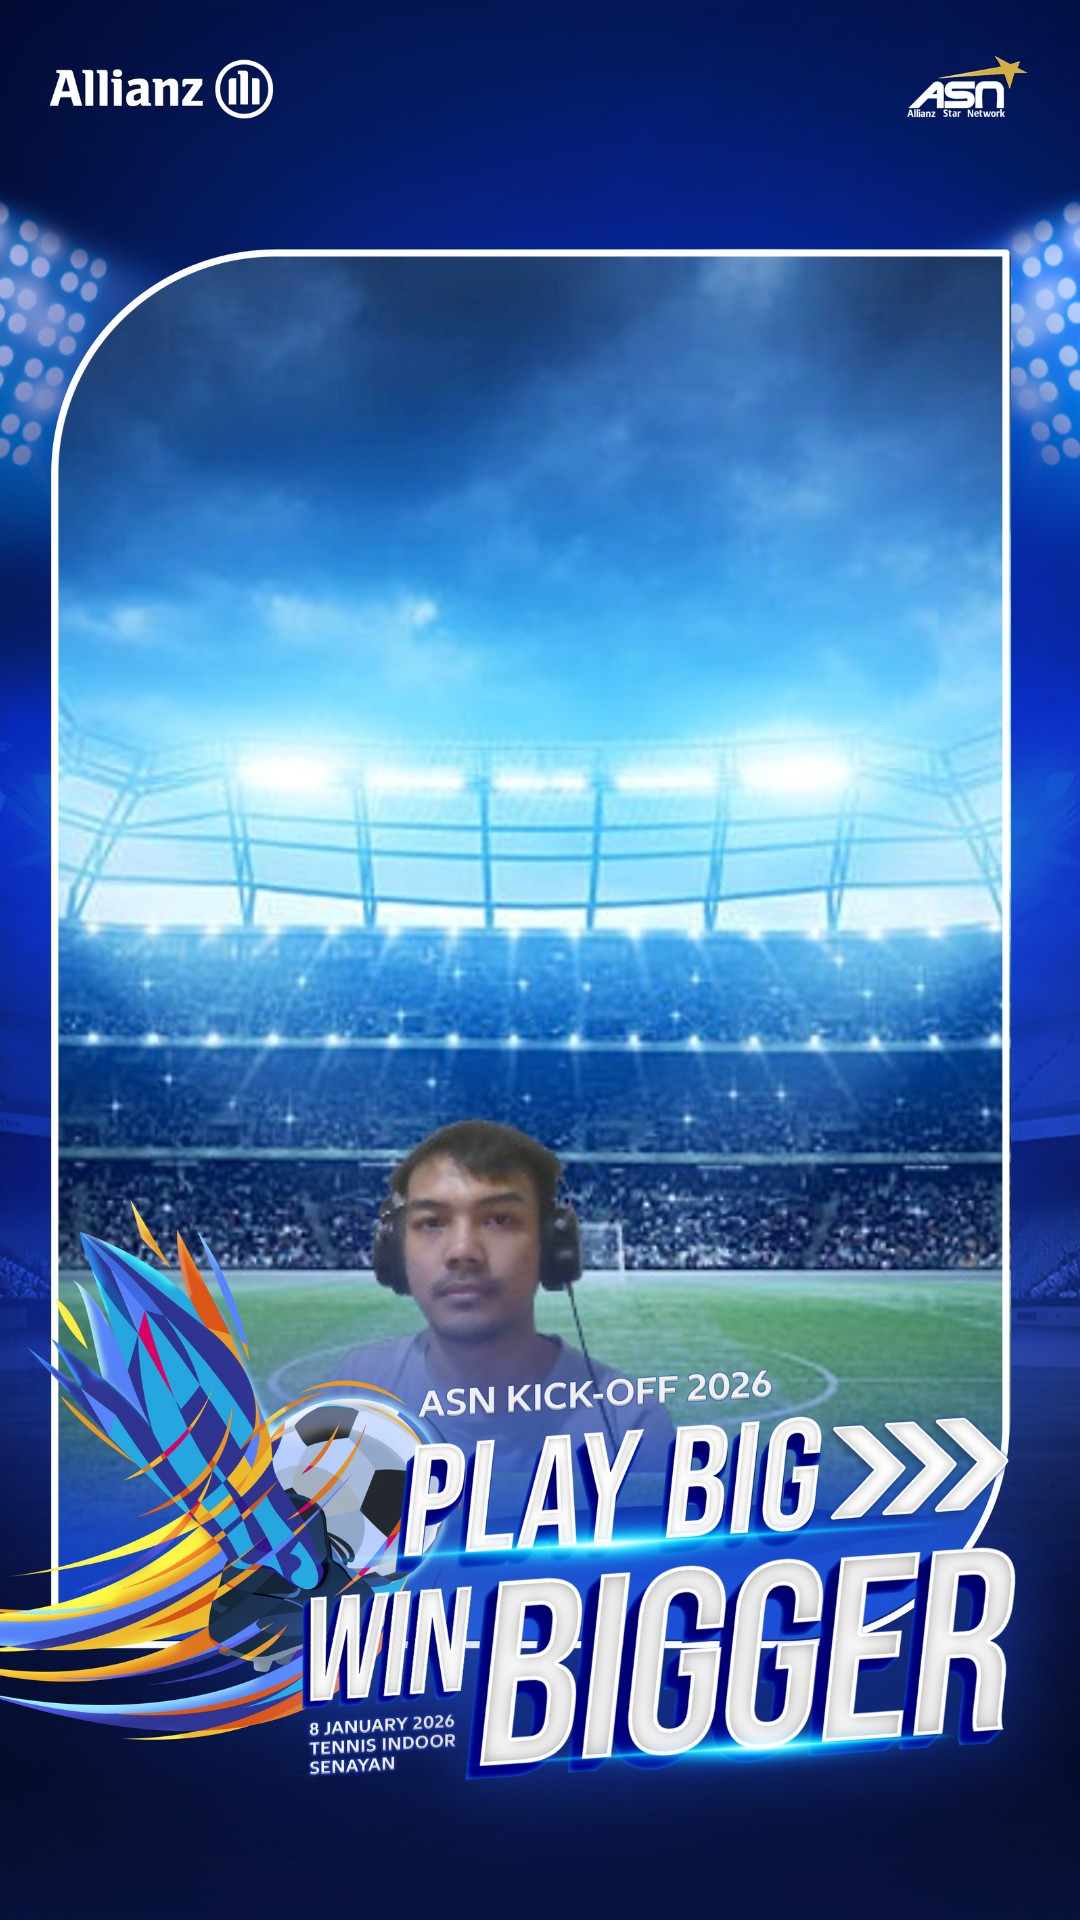
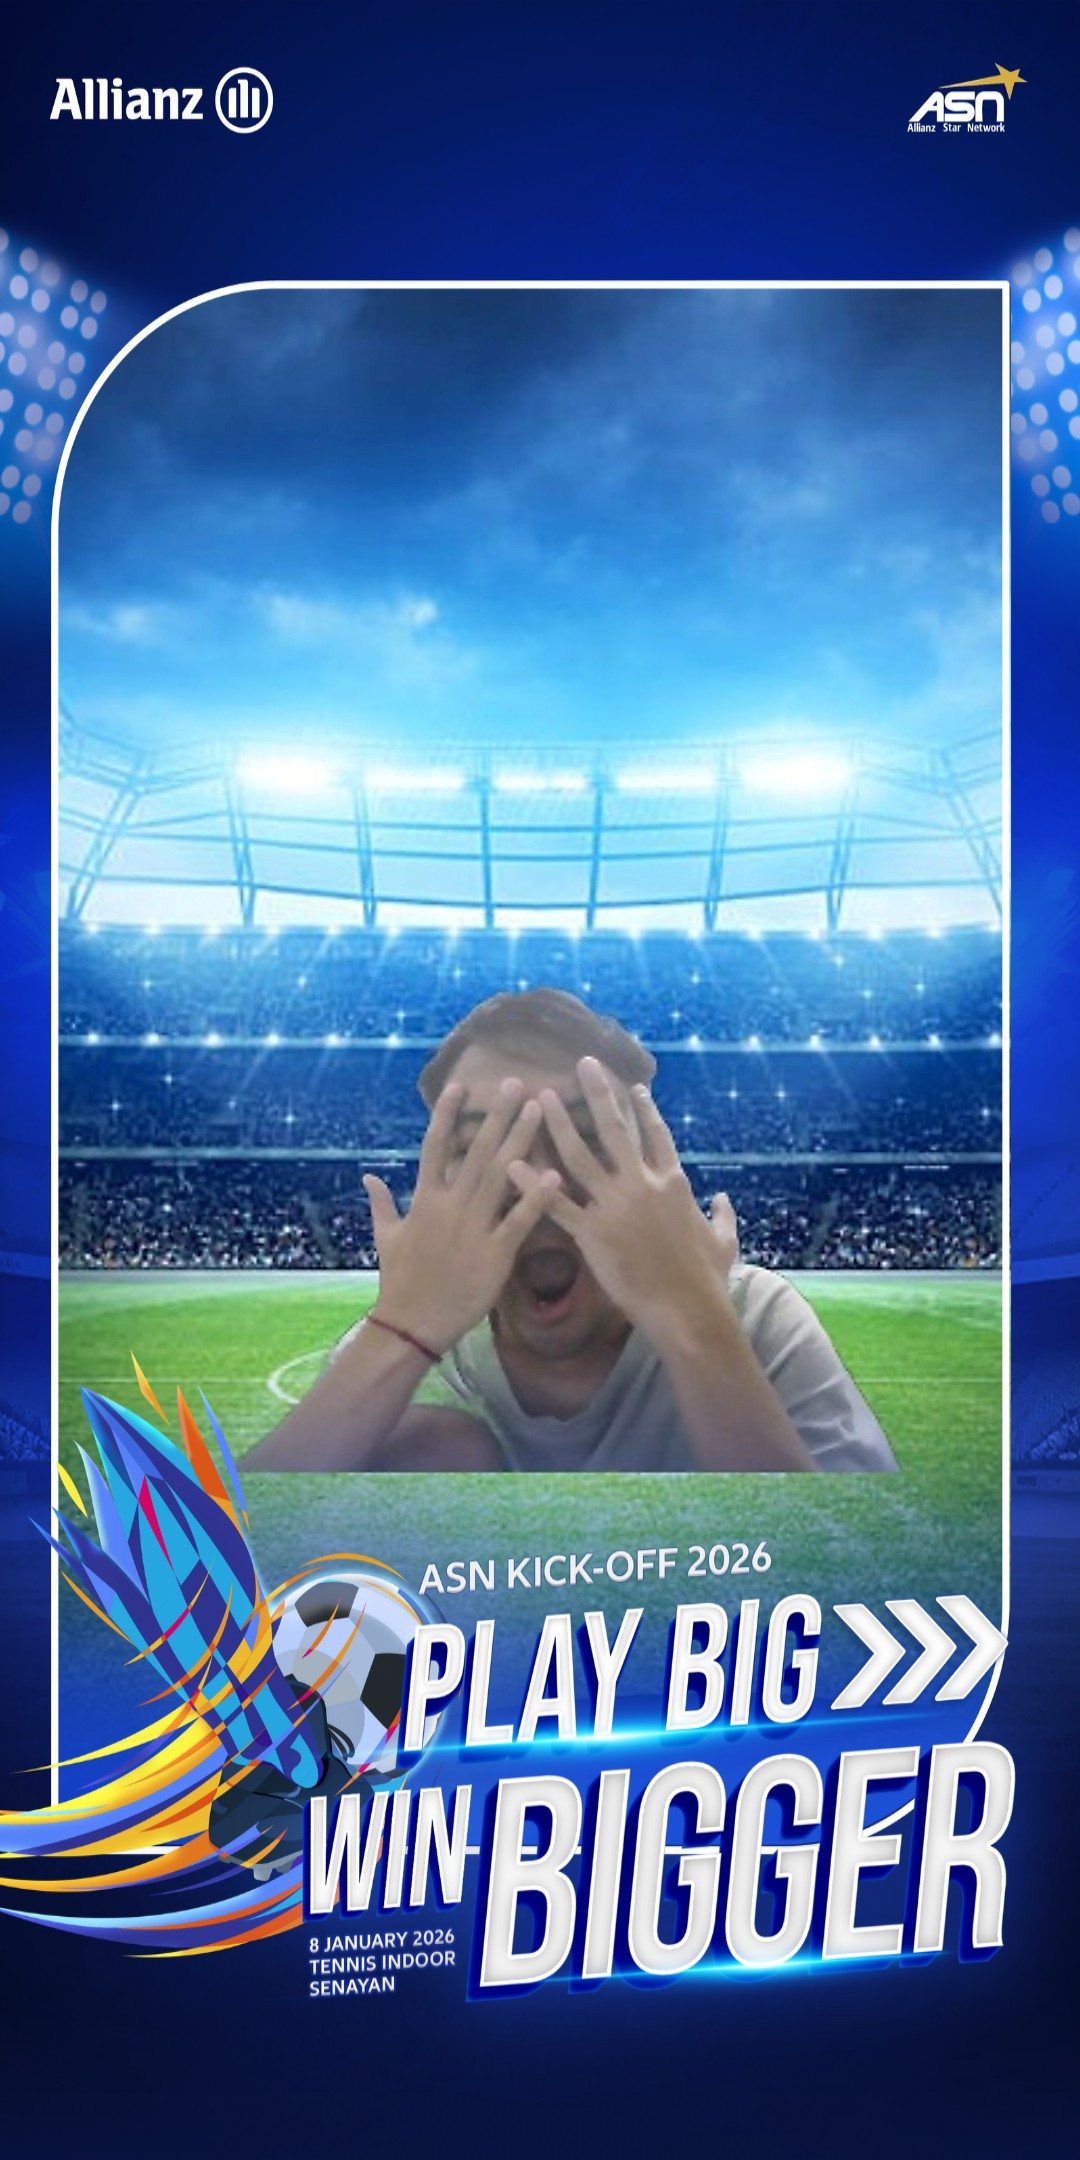
adding fallback image when the backend disconnect and reconnect

diff --git a/frontend/src/views/Display1.vue b/frontend/src/views/Display1.vue
@@ -7,6 +7,7 @@ const photoUrl = ref("");
 const version = ref(0);
 const status = ref("loading"); // loading | waiting | ready | error
 const errorMessage = ref("");
+const isFallback = ref(false);
 
 const POLL_INTERVAL_MS = 2000;
 let pollHandle = null;
@@ -32,6 +33,29 @@ const preloadImage = (url) =>
     img.src = url;
   });
 
+const tryStaticFallback = async () => {
+  if (photoUrl.value) return;
+  const exts = [".jpg", ".jpeg", ".png", ".webp"];
+  const prefixes = ["/static/photos", "/photos"];
+  for (const prefix of prefixes) {
+    for (const ext of exts) {
+      const candidate = resolveUrl(
+        `${prefix}/Display${slotNumber}/foto-${slotNumber}${ext}`
+      );
+      const loaded = await preloadImage(candidate)
+        .then(() => true)
+        .catch(() => false);
+      if (loaded) {
+        photoUrl.value = candidate;
+        version.value = 0;
+        isFallback.value = true;
+        status.value = "waiting";
+        return;
+      }
+    }
+  }
+};
+
 const fetchSlotState = async () => {
   try {
     const response = await fetch(`${apiBaseUrl}/api/slot/${slotNumber}`, {
@@ -50,6 +74,7 @@ const fetchSlotState = async () => {
 
     if (!baseUrl) {
       status.value = "waiting";
+      await tryStaticFallback();
       return;
     }
 
@@ -70,6 +95,7 @@ const fetchSlotState = async () => {
 
     photoUrl.value = nextUrl;
     version.value = incomingVersion;
+    isFallback.value = false;
     status.value = "ready";
     errorMessage.value = "";
   } catch (error) {
@@ -93,6 +119,7 @@ const stopPolling = () => {
 };
 
 onMounted(() => {
+  tryStaticFallback();
   fetchSlotState();
   startPolling();
 });
@@ -108,10 +135,13 @@ onBeforeUnmount(() => {
       <h1 class="led-number">Display {{ slotNumber }}</h1>
       <p v-if="status === 'loading'">Loading slot...</p>
       <p v-else-if="status === 'error'">{{ errorMessage }}</p>
+      <p v-if="status === 'waiting' && isFallback">
+        Waiting for photo, this is fallback.
+      </p>
       <p v-else-if="!photoUrl">Waiting for photo...</p>
       <img
         class="led-image"
-        v-else
+        v-if="photoUrl"
         :src="photoUrl"
         :alt="`Slot ${slotNumber} photo`"
       />

diff --git a/frontend/src/views/Display2.vue b/frontend/src/views/Display2.vue
@@ -7,6 +7,7 @@ const photoUrl = ref("");
 const version = ref(0);
 const status = ref("loading"); // loading | waiting | ready | error
 const errorMessage = ref("");
+const isFallback = ref(false);
 
 const POLL_INTERVAL_MS = 2000;
 let pollHandle = null;
@@ -32,6 +33,29 @@ const preloadImage = (url) =>
     img.src = url;
   });
 
+const tryStaticFallback = async () => {
+  if (photoUrl.value) return;
+  const exts = [".jpg", ".jpeg", ".png", ".webp"];
+  const prefixes = ["/static/photos", "/photos"];
+  for (const prefix of prefixes) {
+    for (const ext of exts) {
+      const candidate = resolveUrl(
+        `${prefix}/Display${slotNumber}/foto-${slotNumber}${ext}`
+      );
+      const loaded = await preloadImage(candidate)
+        .then(() => true)
+        .catch(() => false);
+      if (loaded) {
+        photoUrl.value = candidate;
+        version.value = 0;
+        isFallback.value = true;
+        status.value = "waiting";
+        return;
+      }
+    }
+  }
+};
+
 const fetchSlotState = async () => {
   try {
     const response = await fetch(`${apiBaseUrl}/api/slot/${slotNumber}`, {
@@ -50,6 +74,7 @@ const fetchSlotState = async () => {
 
     if (!baseUrl) {
       status.value = "waiting";
+      await tryStaticFallback();
       return;
     }
 
@@ -70,6 +95,7 @@ const fetchSlotState = async () => {
 
     photoUrl.value = nextUrl;
     version.value = incomingVersion;
+    isFallback.value = false;
     status.value = "ready";
     errorMessage.value = "";
   } catch (error) {
@@ -93,6 +119,7 @@ const stopPolling = () => {
 };
 
 onMounted(() => {
+  tryStaticFallback();
   fetchSlotState();
   startPolling();
 });
@@ -108,10 +135,13 @@ onBeforeUnmount(() => {
       <h1 class="led-number">Display {{ slotNumber }}</h1>
       <p v-if="status === 'loading'">Loading slot...</p>
       <p v-else-if="status === 'error'">{{ errorMessage }}</p>
+      <p v-if="status === 'waiting' && isFallback">
+        Waiting for photo, this is fallback.
+      </p>
       <p v-else-if="!photoUrl">Waiting for photo...</p>
       <img
         class="led-image"
-        v-else
+        v-if="photoUrl"
         :src="photoUrl"
         :alt="`Slot ${slotNumber} photo`"
       />

diff --git a/frontend/src/views/Display3.vue b/frontend/src/views/Display3.vue
@@ -7,6 +7,7 @@ const photoUrl = ref('')
 const version = ref(0)
 const status = ref('loading') // loading | waiting | ready | error
 const errorMessage = ref('')
+const isFallback = ref(false)
 
 const POLL_INTERVAL_MS = 2000
 let pollHandle = null
@@ -32,6 +33,27 @@ const preloadImage = (url) =>
     img.src = url
   })
 
+const tryStaticFallback = async () => {
+  if (photoUrl.value) return
+  const exts = ['.jpg', '.jpeg', '.png', '.webp']
+  const prefixes = ['/static/photos', '/photos']
+  for (const prefix of prefixes) {
+    for (const ext of exts) {
+      const candidate = resolveUrl(
+        `${prefix}/Display${slotNumber}/foto-${slotNumber}${ext}`
+      )
+      const loaded = await preloadImage(candidate).then(() => true).catch(() => false)
+      if (loaded) {
+        photoUrl.value = candidate
+        version.value = 0
+        isFallback.value = true
+        status.value = 'waiting'
+        return
+      }
+    }
+  }
+}
+
 const fetchSlotState = async () => {
   try {
     const response = await fetch(`${apiBaseUrl}/api/slot/${slotNumber}`, { cache: 'no-store' })
@@ -47,6 +69,7 @@ const fetchSlotState = async () => {
 
     if (!baseUrl) {
       status.value = 'waiting'
+      await tryStaticFallback()
       return
     }
 
@@ -65,6 +88,7 @@ const fetchSlotState = async () => {
 
     photoUrl.value = nextUrl
     version.value = incomingVersion
+    isFallback.value = false
     status.value = 'ready'
     errorMessage.value = ''
   } catch (error) {
@@ -87,6 +111,7 @@ const stopPolling = () => {
 }
 
 onMounted(() => {
+  tryStaticFallback()
   fetchSlotState()
   startPolling()
 })
@@ -102,10 +127,13 @@ onBeforeUnmount(() => {
       <h1 class="led-number">Display {{ slotNumber }}</h1>
       <p v-if="status === 'loading'">Loading slot...</p>
       <p v-else-if="status === 'error'">{{ errorMessage }}</p>
+      <p v-if="status === 'waiting' && isFallback">
+        Waiting for photo, this is fallback.
+      </p>
       <p v-else-if="!photoUrl">Waiting for photo...</p>
       <img
         class="led-image"
-        v-else
+        v-if="photoUrl"
         :src="photoUrl"
         :alt="`Slot ${slotNumber} photo`"
       />
